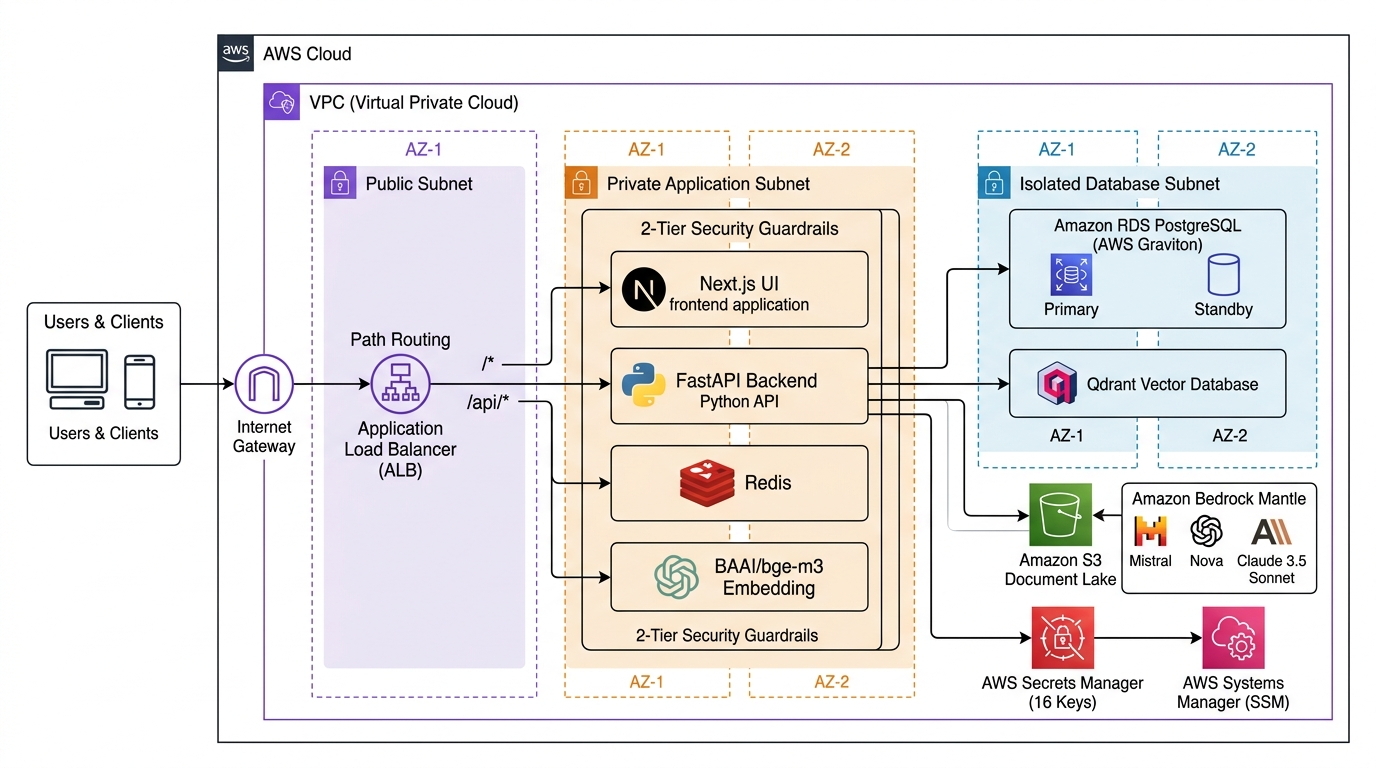
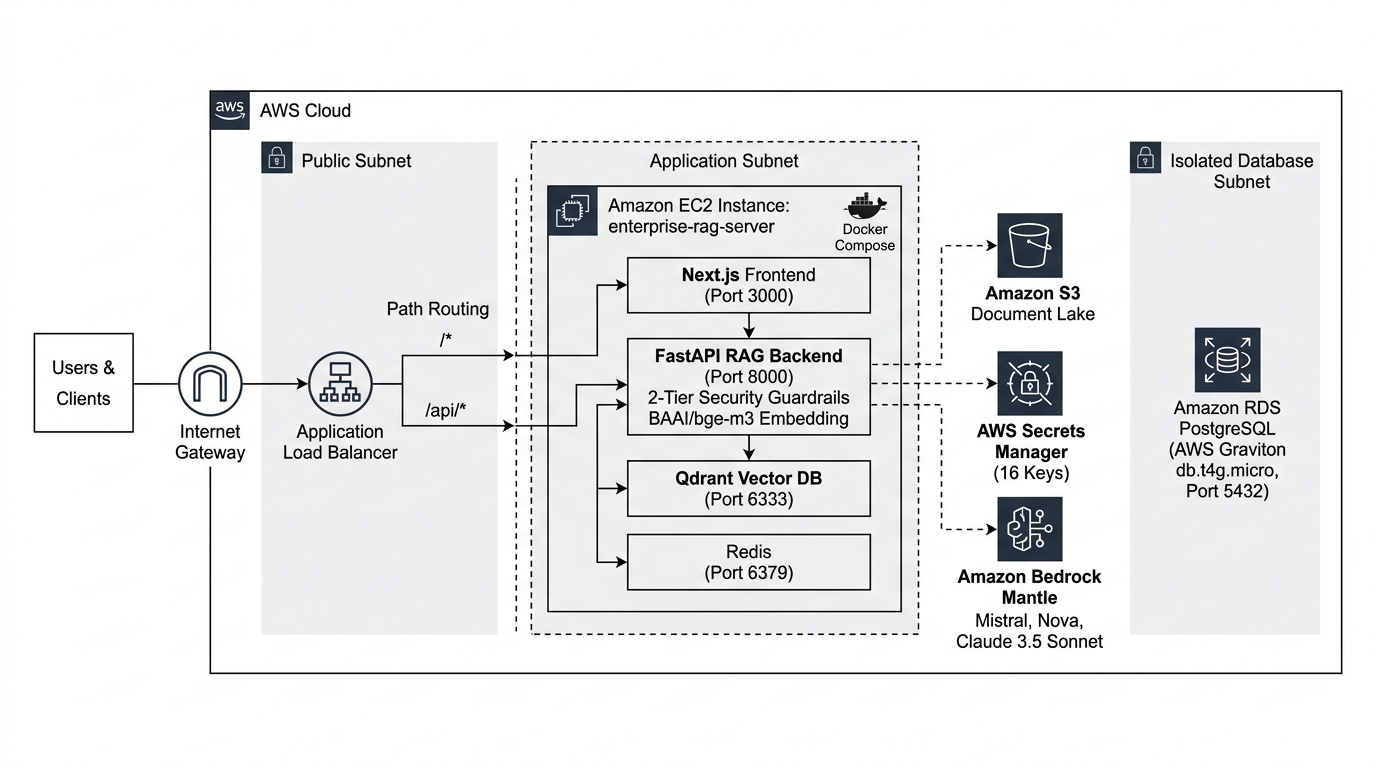
fix(blog): align blog text and architecture diagram with true EC2 Docker and RDS Graviton stack

diff --git a/content/5-Blogs/5.1-rag-enterprise-pipeline/_index.vi.md b/content/5-Blogs/5.1-rag-enterprise-pipeline/_index.vi.md
@@ -20,7 +20,7 @@ pre: " <b> 5.1. </b> "
 
 <div align="center" style="margin: 25px 0;">
   <img src="/images/enterprise_rag_full_architecture.png" alt="Sơ đồ Kiến trúc Đám mây AWS Toàn diện Enterprise RAG" style="width: 100%; max-width: 950px; border-radius: 8px; box-shadow: 0 6px 20px rgba(0,0,0,0.12); border: 1px solid #E2E8F0;" />
-  <p><em>Hình 5.1.1: Sơ đồ Kiến trúc Toàn trình NexusDoc AI: Zero-Trust Multi-AZ VPC, 2-Tier Guardrails, Graviton3, Qdrant và Amazon Bedrock Mantle</em></p>
+  <p><em>Hình 5.1.1: Sơ đồ Kiến trúc Toàn diện NexusDoc AI: Máy chủ Amazon EC2 (enterprise-rag-server) vận hành Docker Compose (Next.js, FastAPI, Qdrant, Redis), Amazon RDS PostgreSQL (AWS Graviton) trong Isolated Subnet, ALB Path Routing, S3, Secrets Manager (16 Keys) và Amazon Bedrock Mantle</em></p>
 </div>
 
 ---
@@ -29,7 +29,7 @@ pre: " <b> 5.1. </b> "
 
 > **Xây dựng RAG Pipeline cho Enterprise: Từ Web Client đến Amazon Bedrock & Tối ưu 68% Chi phí trên AWS**
 >
-> Mình vừa hoàn thiện một kiến trúc Enterprise RAG (Retrieval-Augmented Generation) kết hợp giữa mô hình mạng Zero-Trust và hạ tầng Container hóa (ECS Fargate/Graviton), tối ưu hóa cả về độ an toàn dữ liệu lẫn bài toán chi phí vận hành cho doanh nghiệp.
+> Mình vừa hoàn thiện một kiến trúc Enterprise RAG (Retrieval-Augmented Generation) kết hợp giữa mô hình mạng Zero-Trust, hạ tầng Container hóa Docker trên máy chủ Amazon EC2 và Amazon RDS PostgreSQL chạy trên vi xử lý AWS Graviton, tối ưu hóa cả về độ an toàn dữ liệu lẫn bài toán chi phí vận hành cho doanh nghiệp.
 >
 > **Vì sao kiến trúc này phù hợp với Enterprise?**
 >
@@ -42,7 +42,7 @@ pre: " <b> 5.1. </b> "
 > * **Tier 2 (Context Grounding):** Ràng buộc mô hình suy luận nghiêm ngặt dựa trên ngữ cảnh được trích xuất (Retrieval Context), tự động dẫn nguồn trích dẫn (số trang/điều khoản) và dứt khoát từ chối khi thông tin nằm ngoài phạm vi tài liệu.
 >
 > ✅ **Tối ưu hóa 68% chi phí vận hành (TCO):**  
-> Thay vì duy trì các cụm máy chủ GPU đắt đỏ ($600 – $800/tháng chạy 24/7), hệ thống kết hợp vi xử lý AWS Graviton3 ARM64 cho backend & embedding search, kết hợp Foundation Models qua Amazon Bedrock theo cơ chế Pay-as-you-go, đưa chi phí toàn hệ thống xuống chỉ còn ~$270/tháng.
+> Thay vì duy trì các cụm máy chủ GPU đắt đỏ ($600 – $800/tháng chạy 24/7), hệ thống kết hợp vi xử lý AWS Graviton3 ARM64 (db.t4g.micro) cho cơ sở dữ liệu RDS, chạy Docker Compose tối ưu trên EC2 cho backend & Qdrant vector search, kết hợp Foundation Models qua Amazon Bedrock theo cơ chế Pay-as-you-go, đưa chi phí toàn hệ thống xuống chỉ còn ~$270/tháng.
 >
 > ✅ **Bảo mật tập trung với AWS Secrets Manager & KMS:**  
 > Loại bỏ hoàn toàn nguy cơ từ file .env tĩnh, toàn bộ tham số môi trường sản xuất được mã hóa với KMS và tự động nạp động (Runtime Injection) thông qua IAM Role.

diff --git a/content/5-Blogs/5.1-rag-enterprise-pipeline/_index.en.md b/content/5-Blogs/5.1-rag-enterprise-pipeline/_index.en.md
@@ -20,7 +20,7 @@ pre: " <b> 5.1. </b> "
 
 <div align="center" style="margin: 25px 0;">
   <img src="/images/enterprise_rag_full_architecture.png" alt="Full Enterprise RAG AWS Cloud Architecture Diagram" style="width: 100%; max-width: 950px; border-radius: 8px; box-shadow: 0 6px 20px rgba(0,0,0,0.12); border: 1px solid #E2E8F0;" />
-  <p><em>Figure 5.1.1: End-to-End NexusDoc AI Architecture: Zero-Trust Multi-AZ VPC, 2-Tier Guardrails, Graviton3, Qdrant, and Amazon Bedrock Mantle</em></p>
+  <p><em>Figure 5.1.1: End-to-End NexusDoc AI Architecture: Amazon EC2 Host (enterprise-rag-server) running Docker Compose (Next.js, FastAPI, Qdrant, Redis), Amazon RDS PostgreSQL (AWS Graviton) in Isolated Subnet, ALB Path Routing, S3, Secrets Manager (16 Keys), and Amazon Bedrock Mantle</em></p>
 </div>
 
 ---
@@ -29,7 +29,7 @@ pre: " <b> 5.1. </b> "
 
 > **Building an Enterprise RAG Pipeline: From Web Client to Amazon Bedrock & 68% Cost Optimization on AWS**
 >
-> I recently engineered an Enterprise RAG (Retrieval-Augmented Generation) architecture combining Zero-Trust network segmentation with containerized infrastructure (ECS Fargate / Graviton), optimizing both enterprise data security and cloud operating economics.
+> I recently engineered an Enterprise RAG (Retrieval-Augmented Generation) architecture combining Zero-Trust network segmentation, Docker containerized runtime on an Amazon EC2 compute instance, and Amazon RDS PostgreSQL running on AWS Graviton, optimizing both enterprise data security and cloud operating economics.
 >
 > **Why is this architecture ideal for Enterprises?**
 >
@@ -42,7 +42,7 @@ pre: " <b> 5.1. </b> "
 > * **Tier 2 (Context Grounding):** Strictly bounds LLM reasoning to the retrieved context, automatically appending exact page/article citations and politely declining when evidence is absent from internal documents.
 >
 > ✅ **68% TCO Cost Optimization:**  
-> Rather than provisioning dedicated GPU clusters ($600 – $800/month running 24/7), the platform pairs power-efficient AWS Graviton3 ARM64 compute for vector search with on-demand Foundation Models via Amazon Bedrock (Pay-as-you-go), reducing total cloud spend to ~$270/month.
+> Rather than provisioning expensive dedicated GPU clusters ($600 – $800/month running 24/7), the system combines power-efficient AWS Graviton ARM64 (db.t4g.micro) for the RDS database, lightweight Docker Compose on Amazon EC2 for the application backend and Qdrant vector search, and on-demand Foundation Models via Amazon Bedrock (Pay-as-you-go), reducing total infrastructure cost to ~$270/month.
 >
 > ✅ **Centralized Credential Security with AWS Secrets Manager & KMS:**  
 > Completely eliminates static `.env` file risks; all 16 production environment variables are KMS-encrypted and dynamically injected at runtime via IAM Roles.
